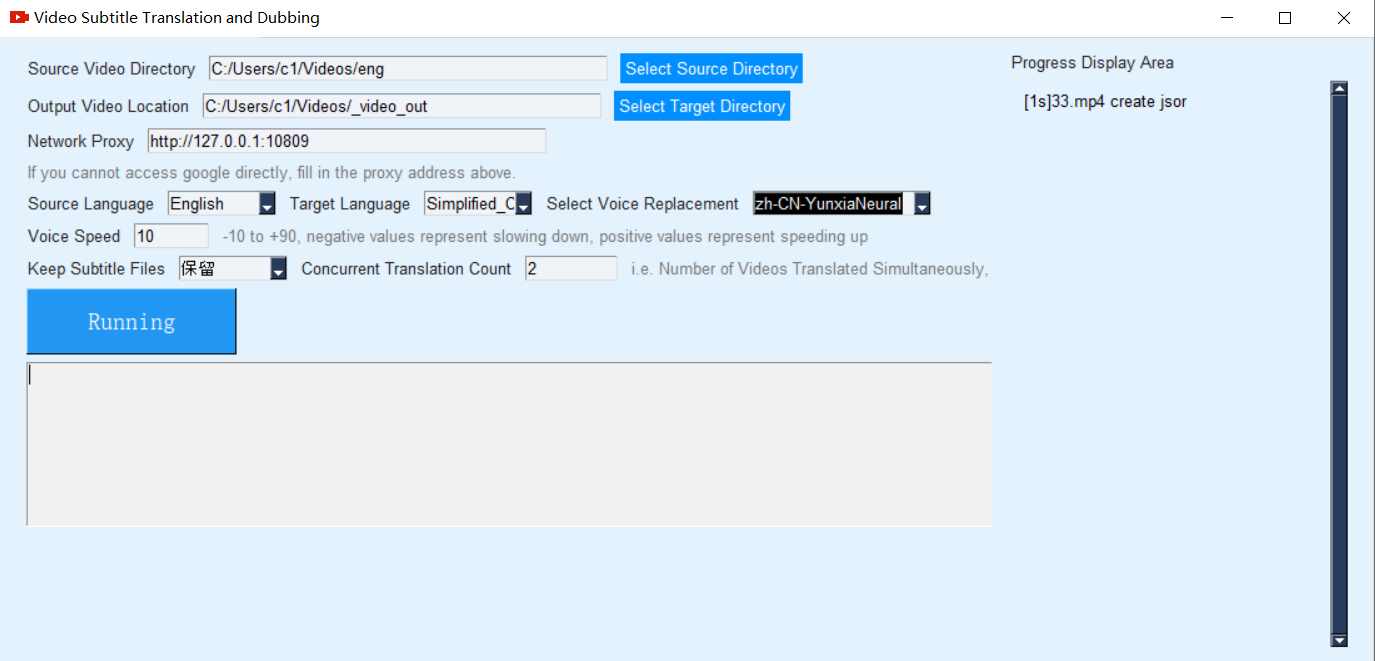
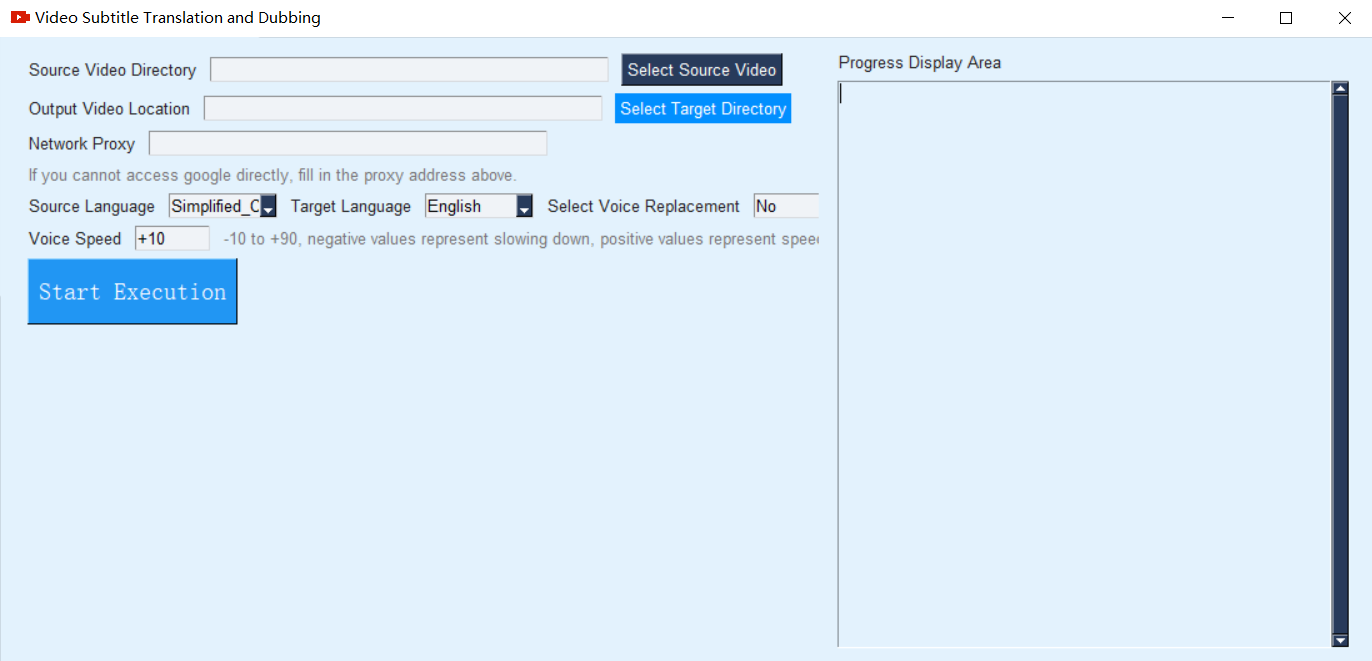
fixed

Changed region(s): [[0.0, 0.0, 0.8878, 0.5749], [0.949, 0.121, 1.0, 0.9985], [0.5816, 0.5446, 0.6122, 0.5749]]

diff --git a/sp.py b/sp.py
@@ -2,13 +2,15 @@ import asyncio
 import re
 import shutil
 import sys
+import urllib.parse
+
 import httpx
+import requests
 import speech_recognition as sr
 import os
 import time
 from pydub import AudioSegment
 from pydub.silence import detect_nonsilent
-from googletrans import Translator
 import PySimpleGUI as sg
 import srt
 from datetime import timedelta
@@ -18,7 +20,6 @@ from tkinter import messagebox
 import threading
 from config import qu, rootdir, langlist, timelist, current_status, video_config, layout, voice_list, transobj
 import edge_tts
-import moviepy.editor as mp
 
 sg.user_settings_filename(path='.')
 asyncio.set_event_loop_policy(asyncio.WindowsSelectorEventLoopPolicy())
@@ -96,6 +97,35 @@ def merge_audio_segments(segments, start_times, total_duration, mp4name):
     merged_audio.export(f"./tmp/{mp4name}.wav", format="wav")
     return merged_audio
 
+# google 翻译
+def googletrans(text,src,dest):
+    url = f"https://translate.google.com/m?sl={urllib.parse.quote(src)}&tl={urllib.parse.quote(dest)}&hl={urllib.parse.quote(dest)}&q={urllib.parse.quote(text)}"
+    print(f"{url=}")
+    headers = {
+        'User-Agent': 'Mozilla/5.0 (Windows NT 10.0; Win64; x64) AppleWebKit/537.36 (KHTML, like Gecko) Chrome/91.0.4472.124 Safari/537.36'
+    }
+    proxies=None
+    if "http_proxy" in os.environ:
+        proxies = {
+            'http': os.environ['http_proxy'],
+            'https': os.environ['https_proxy']
+        }
+
+    # proxies = {
+    #     'http': 'http://127.0.0.1:10809',
+    #     'https': 'http://127.0.0.1:10809'
+    # }
+
+    response = requests.get(url, proxies=proxies,headers=headers,timeout=40)
+    if response.status_code!=200:
+        return f"error translation code={response.status_code}"
+    re_result = re.findall(
+        r'(?s)class="(?:t0|result-container)">(.*?)<', response.text)
+    return "error on translation" if len(re_result)<1 else re_result[0]
+
+
+# print(googletrans(" ignition services, or asrs, or built on technology that's over 50 years old. yep, even these guys. the old tech is fine for short call and response audio. alexa, what's the weather to you?. ","en","zh-cn"))
+# exit()
 
 # 处理各个音频片段到文字并生成字幕文件
 def get_large_audio_transcription(aud_path, mp4name, sub_name):
@@ -163,8 +193,8 @@ def get_large_audio_transcription(aud_path, mp4name, sub_name):
                 audio_listened = r.record(source)
                 try:
                     # text = r.recognize_google(audio_listened, language=video_config['detect_language'])
-                    text = r.recognize_whisper(audio_listened, language=video_config['detect_language'])
-                    print(f"【get_large_audio_transcription】语音识别为文字:{text=}")
+                    text = r.recognize_whisper(audio_listened, language= "zh" if video_config['detect_language']=="zh-cn" or video_config['detect_language']=="zh-tw" else video_config['detect_language'])
+                    # print(f"【get_large_audio_transcription】语音识别为文字:{text=}")
                 except sr.UnknownValueError as e:
                     print("Recognize Error: ", str(e), end='; ')
                     segments.append(audio_chunk)
@@ -178,9 +208,11 @@ def get_large_audio_transcription(aud_path, mp4name, sub_name):
                 text = f"{text.capitalize()}. "
                 try:
                     # google翻译
-                    transd = translator.translate(text, src=video_config['source_language'],
-                                                  dest=video_config['target_language'])
-                    result = transd.text
+                    # result = translator.translate(text, src=video_config['source_language'],  dest=video_config['target_language'])
+                    result=googletrans(text,video_config['source_language'],video_config['target_language'])
+                    # result = gt.translate(text,video_config['target_language'],video_config['source_language'])
+                    # result = transd.text
+                    print(f"-target_language={video_config['target_language']}---text={result=}")
                 except Exception as e:
                     print("Translate Error:", str(e))
                     segments.append(audio_chunk)
@@ -201,13 +233,16 @@ def get_large_audio_transcription(aud_path, mp4name, sub_name):
                                                        rate=video_config['voice_rate'])
                     tmpname = f"./tmp/{start_time}-{index}.mp3"
                     asyncio.run(communicate.save(tmpname))
-                    audio_data = AudioSegment.from_file(tmpname, format="mp3")
+                    try:
+                        audio_data = AudioSegment.from_file(tmpname, format="mp3")
+                    except:
+                        audio_data=AudioSegment.silent(duration=end_time-start_time)
                     segments.append(audio_data)
                     os.unlink(tmpname)
         merge_audio_segments(segments, start_times, total_length * 1000, mp4name)
         final_srt = srt.compose(subs)
-        with open(sub_name, 'w', encoding="utf-8") as f:
-            f.write(final_srt)
+        with open(sub_name, 'wb') as f:
+            f.write(final_srt.encode())
     else:
         updatebtn(mp4name, "add subtitle")
 
@@ -367,8 +402,9 @@ if __name__ == "__main__":
             # 目标存放地址
             if not target_dir:
                 target_dir = os.path.join(os.path.dirname(source_dir), "_video_out").replace('\\', '/')
-                os.makedirs(target_dir, 0o777, exist_ok=True)
                 window['target_dir'].update(value=target_dir)
+            if not os.path.exists(target_dir):
+                os.makedirs(target_dir, 0o777, exist_ok=True)
             # 原语言
             source_lang = window['source_lang'].get()
             target_lang = window['target_lang'].get()
@@ -412,7 +448,8 @@ if __name__ == "__main__":
             current_status = "ing"
             window['startbtn'].update(text=transobj['running'])
 
-            translator = Translator(service_urls=['translate.googleapis.com'])
+            # translator = Translator(service_urls=['translate.googleapis.com'])
+
             r = sr.Recognizer()
             threading.Thread(target=running, args=(window['source_dir'].get(),)).start()
             threading.Thread(target=showsubtitle).start()

diff --git a/config.py b/config.py
@@ -74,10 +74,10 @@ layout = [
                 ],
                 [
                     sg.Text('视频原始语言', background_color="#e3f2fd", text_color='#212121'),
-                    sg.Combo(list(langlist.keys()), default_value=sg.user_settings_get_entry('source_lang', '英语'),
+                    sg.Combo(list(langlist.keys()), default_value='英语',
                              readonly=True, key="source_lang", size=(10, None)),
                     sg.Text('翻译目标语言', background_color="#e3f2fd", text_color='#212121'),
-                    sg.Combo(list(langlist.keys()), default_value=sg.user_settings_get_entry('target_lang', '中文简'),
+                    sg.Combo(list(langlist.keys()), default_value='中文简',
                              readonly=True, key="target_lang", size=(10, None),
                              enable_events=True
                              ),
@@ -187,11 +187,11 @@ if defaulelang == "en":
                     [
                         sg.Text('Source Language', background_color="#e3f2fd", text_color='#212121'),
                         sg.Combo(list(langlist.keys()),
-                                 default_value=sg.user_settings_get_entry('source_lang', 'Simplified_Chinese'),
+                                 default_value='Simplified_Chinese',
                                  readonly=True, key="source_lang", size=(10, None)),
                         sg.Text('Target Language', background_color="#e3f2fd", text_color='#212121'),
                         sg.Combo(list(langlist.keys()),
-                                 default_value=sg.user_settings_get_entry('target_lang', 'English'),
+                                 default_value='English',
                                  readonly=True, key="target_lang", size=(10, None),
                                  enable_events=True
                                  ),

diff --git a/README.md b/README.md
@@ -41,7 +41,7 @@
 
 # 可能的问题
 
-> 在使用httpx和 googletrans 配置代理时可能报错，将 googletrans 包下 client.py 57 行左右改为 `proxies 类型 改为 httpcore.SyncHTTPProxy`
+> 翻译使用 requests 请求 google api，然后提取，过于频繁可能会被限制。
 
 
 # 致谢
